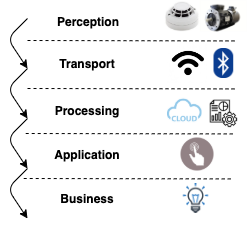
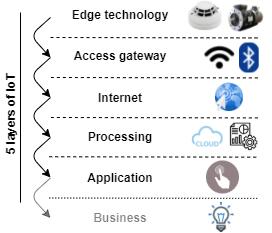
Improve IoT architecture #12
- Rename "IoT hacking" to "IoT overview" as the document does not talk
  about hacking there.
- For layered architecture follow CEH terminology closer.
- Add more information regarding IoT footprinting.
- Add more attacks.

diff --git a/chapters/18-iot-and-ot/iot-security.md b/chapters/18-iot-and-ot/iot-security.md
@@ -59,6 +59,19 @@
 
 ## IoT attacks
 
+## IoT attack surface areas
+
+- **Device memory**: Credentials
+- **Ecosystem access control**: Implicit trust between components
+- **Device physical interfaces**: Privilege escalation, CLI
+- **Device web interface**: SQL injection, XSS
+- **Device firmware**: Sensitive data exposure, hardcoded credentials
+- **Device network services**: Unencrypted/poorly encrypted services.
+- **Administrative interface**: SQL Injection, XSS
+- **Local data storage**: Data encrypted with discovered keys, lack of integrity checks.
+
+## IoT attack types
+
 - **Access control**
   - E.g. remote access control or gaining access to administration panels
 - **BlueBorn Attack**
@@ -72,17 +85,25 @@
     - Reconstruct a visual and textual representation of network information to support real-world Internet of Thingl
 - **HVAC attack**
   - Takes place when one hacks IoT devices in order to shut down air conditioning services.  
+  - Can allow access to a corporate systems.
 - [Backdoor](./../07-malware/malware-overview.md#backdoor) (not just IoT related)
 - [Exploit kits](../07-malware/malware-overview.md#exploit-kit)
+  - Malicious scripts used to exploit poorly patched devices.
 - [Replay attack](./../06-system-hacking/cracking-passwords-overview.md#replay-attack)
+  - Attackers send intercepted messages to target device to perform DoS.
+  - See also [SDR-based attacks](#sdr-based-attacks)
 - [Ransomware](./../07-malware/malware-overview.md#ransomware) attack
+  - Type of malware that uses encryption to block user's access to his/her device.
 - [Privilege escalation](./../06-system-hacking/escalating-privileges.md)
 - [Side channel attack](./../16-cloud-computing/cloud-security.md#side-channel-attacks)
+  - Attackers extract info about encryption keys by observing the emission signals (side channels) from IoT devices.
 - [Web application attacks](./../13-web-applications/hacking-web-applications.md), [web server attacks](./../12-web-servers/web-server-threats-and-attacks.md)
 - [Cloud computing attacks](./../16-cloud-computing/cloud-security.md#cloud-computing-attacks)
 - [Mobile application threats](./../17-mobile-platforms/mobile-attacks.md)
 - [DoS / DDoS](./../13-web-applications/denial-of-service.md)
-- Forged malicious devices
+  - Can be done by converting devices into an army of botnet.
+- **Forged malicious devices**
+  - Attackers replace authentic IoT devices  with malicious device.
 - Resetting to an insecure state
 - Removal of storage media
 - Firmware attack
@@ -92,7 +113,8 @@
 - Malicious updates
 - Insecure APIs
 - Eavesdropping
-- Sybil attack
+- **Sybil attack**
+  - Attacker uses multiple forged identities to create strong illusion of traffic congestion.
 
 ### Rolling code attack
 
@@ -101,7 +123,21 @@
 - Attacker capture signal from transmitter device, simultaneously blocking the receiver to receive the signal
 - Attacker uses the signal to gain unauthorized access
 - E.g. stealing car with captured signal
+  - Attacker jams and sniffs the signal to obtain the code transferred to vehicle's receiver
 - Tools include [HackRF One](https://greatscottgadgets.com/hackrf/one/) hardware tool.
+
+### SDR-based Attacks
+
+- Attackers use Software Defined Radio (SDR) to examine the communication signals in the IoT network and sends spam content or texts to the interconnected devices.
+- Can also change the transmission and reception of signals between the devices.
+- Includes
+  - **Replay attack**
+    - The attacker obtains frequency used for data sharing between devices and captures data.
+  - **Cryptanalysis Attack**
+    - Attacker uses same procedure as replay attack and also reverse engineering of the protocol to capture the original signal.
+  - **Reconnaissance attack**
+    - Attacker obtains info about the target device from the device's specification.
+    - See also [information gathering](#information-gathering)
 
 ### Firmware extraction
 
@@ -116,16 +152,43 @@
 - Allows pushing firmware updates
 - Enables usage of devices to other devices in the network
 
+### Fault injection attacks
+
+- Also known as **perturbation attacks**
+- Occur when a perpetrator injects any faulty or malicious program into the system to compromise the system security.
+- **Optical, Electro Magnetic Fault Injection (EMFI), Body Bias Injection (BBI)**
+  - Injection using projecting lasers and electromagnetic pulses.
+- **Power/clock/reset/glitching**
+  - Injections into power supply and clock network of the chip.
+- **Frequency/voltage tampering**
+  - Tampering with clock frequency of the chip
+- **Temperature attacks**
+  - Attackers alter the temp for the operating the chip.
+
+### DNS rebinding
+
+- Done by compromising browsers as traffic tunnels to exploit private services.
+- Done through malicious script in a webpage to manipulate resolution of domain names.
+- Can help to gain access over the target's router using a malicious JavaScript code injected on a web page.
+  - After that, an attacker can assault any device activated using the default password.
+
 ## Hacking Methodology
 
 ### Information gathering
 
-- IP address
-- Running protocols
-- Open ports
-- Type of device
-- Vendor
-- [Shodan](https://www.shodan.io/) is a helpful search engine for IoT
+- Also known as **IoT footprinting**
+- Includes collecting [information](./../02-footprinting/footprinting-overview.md#footprinting-information) regarding target IoT devices
+- Information can include e.g. IP address,running protocols, vendor, type of device, hostname, ISP, device location, banner of the target IoT device.
+- Can involve using
+  - [IoT search engines](./../02-footprinting/search-engines-and-online-resources.md#iot-search-engines) to find manufacturer or device information.
+  - Searching for hardware registrations in regulating bodies
+    - Can help to find information regarding compliance standards, user Manuals, documentation, wireless operating frequency, and photos
+    - E.g.
+      - 📝 [FCC ID search](https://fccid.io/) by "United States Federal Communications Commission registry"
+      - [IC ID Search](https://industrycanada.co/) by "Industry Canada (IC)"
+      - [KCC identifier search](https://fccid.io/KCC.php) by  Korean Communications Commission
+      - [CMII/CMIIT search](https://fccid.io/CMIIT-ID.php) by China Ministry of Industry and Information Technology
+- See also [Footprinting](./../02-footprinting/footprinting-overview.md)
 
 ### Vulnerability scanning
 
@@ -156,15 +219,30 @@
 - Clearing logs
 - Covering tracks
 
-## Countermeasures
+## IoT attack countermeasures
 
-- Firmware update
-- Block unnecessary ports
-- Disable telnet as it's insecure protocol
-- Use encrypted communication (SSL/TLS)
-- Use strong password
-- Encrypt drives
-- Periodic assessment of devices
-- Secure password recovery
-- Two-Factor Authentication
-- Disable UPnP
+- **Encrypt**
+  - Use encrypted communication (SSL/TLS)
+  - Implement end-to-end encryption
+  - Use VPN architecture
+  - Encrypt drives
+- **Password policies**
+  - Use strong password
+  - Ensure secure password recovery
+- **Update devices**
+  - Patch vulnerabilities
+  - Firmware update
+- **Restrict access**
+  - Prevent the devices against physical tampering
+  - Allow only trusted IP's to access device from internet
+  - Implement strong authentication mechanisms.
+    - E.g. two-Factor Authentication
+  - Use Lockout feature to disable multiple login attempts
+- **Monitor**
+  - Implement IPS/IDS in the network
+  - Periodic assessment of devices
+- **Disable unused or unnecessary ports and services**
+  - Disable UPnP port on routers
+  - Monitor traffic on port 48101 for infected traffic
+  - Disable telnet as it's insecure protocol
+  - Disable Guest or Demo user accounts

diff --git a/chapters/18-iot-and-ot/iot-overview.md b/chapters/18-iot-and-ot/iot-overview.md
@@ -1,4 +1,4 @@
-# IoT hacking
+# IoT overview
 
 ## IoT basics
 
@@ -61,26 +61,93 @@
 - Access are granted to the uploaded data to third-parties
 - E.g. [Map My Fitness](https://www.mapmyfitness.com/app) that compiles data from other applications
 
-## Five layer IoT architecture
+## Layered architecture
 
+- IoT architecture can be categorized into different layers.
+- There's no consistency regarding naming of layer.
+  - Different methodologies are used but the concepts they represent are very similar.
+- 📝 It usually consists of 5 layers:
+  1. [Edge technology layer](#edge-technology-layer) the "IoT objects collecting data"
+  2. [Access gateway layer](#access-gateway-layer) the "data transporter"
+  3. [Internet layer](#internet-layer) the "endpoint connector"
+  4. [Middleware layer](#middleware-layer) the "data analyzer and processor"
+  5. [Application layer](#application-layer) the "user interface"
+- Some sources also name sixth layer:
+  6. [Business layer](#business-layer) the "core logic"
 - Each layer is utilized by layer below without knowledge of other layers
 - ![IoT 5 Layered Architecture](./img/iot-5-layer-architecture.png)
 - Read more: [IoT Elements, Layered Architectures and Security Issues: A Comprehensive Survey](https://www.mdpi.com/1424-8220/18/9/2796/htm)
 
-### Business layer
+### Five-layers of IoT architecture
 
-- Includes business models
-- System management
-- **Key security components**: privacy protection
+#### Edge technology layer
+
+- Also known as **perception layer** or **hardware layer**
+- Physical objects (hardware components)
+  - Covers IoT capable devices
+  - E.g. sensors, actuators, heat sensor, RFID tags, readers, device itself
+- Connects devices within network and server
+- Gathers environment data
+- **Key security components**
+  - Encryption and key agreement
+  - Sensor data protection
 - **Vulnerabilities**
-  - Business logic attack: exploits a programming flaw
-  - Zero-day attack: exploits security hole unknown to the vendor
+  - Eavesdropping: real time attack to intercept privacy communications.
+  - Node Capture: capturing a key node such as gateway to reveal information.
+  - Fake Node and Malicious: adding node to input fake data to stop transmitting real information
+  - Replay (play back) attack: eavesdrops a communication and reusing it to authenticate.
+  - Timing Attack: Extract secrets by observing respond time
 
-### Application layer
+#### Access gateway layer
 
-- Graphic data representation
-- Application specific services
-- **Key security components**: authentication, key agreement
+- Also known as **network layer** or **transport layer**
+- Handles data transmission i.e. transferring the data through network
+- E.g. Wi-Fi, bluetooth
+- Enables communication
+  - Connects two endpoints e.g. a clients with a device.
+  - Includes the initial data handling.
+  - Through e.g. message routing, message identification, and subscriptions.
+- **Key security components**
+  - Encryption
+  - Identity authentication
+- **Vulnerabilities**
+  - Denial of Service (DoS) Attack with redundant requests
+  - Main-in-The-Middle (MiTM) Attack: to intercept and manipulate data in real-time
+  - Storage Attack: Changing data stored in device or cloud
+  - Exploit attack: Exploits vulnerabilities in an application, system or hardware
+
+#### Internet layer
+
+- Responsible for end-points connectivity.
+- Carries out communication between two endpoints.
+  - E.g. device-to-device, device-to-cloud, device-to-gateway and back-end data-sharing.
+
+#### Middleware layer
+
+- Also known as **processing layer**
+- Responsible for device and information management.
+- Handles data analytics
+  - I.e. storing, processing and analysis of data.
+  - E.g. data analysis, data aggregation, data filtering, device information discovery, and access control.
+- Behaves as interface for two-way communication between
+  - [Application layer](#application-layer) (the user interface).
+  - [Edge technology layer](#edge-technology-layer) (the hardware).
+- **Key security components**
+  - Key security layer, secure cloud computing, antivirus
+- **Vulnerabilities**
+  - Exhaustion: Can disturb memory, battery e.g. after effect of a DoS
+  - Malware
+
+#### Application layer
+
+- The user interface for
+  - Graphic data representation
+  - Controlling, managing and commanding IoT devices.
+- Responsible for delivering *service* and *data* to users.
+  - A service is application-specific e.g. industrial, manufacturing, automobile, security, healthcare...
+- **Key security components**
+  - Authentication
+  - Key agreement
 - **Vulnerabilities**
   - Cross site scripting: injecting code through e.g. JavaScript
   - Malicious code attack: can activate itself or require user attention to perform an action.
@@ -88,36 +155,17 @@
     - Caused by massive amount of data transmission
     - Can lead to data loss and network disturbance
 
-### Processing (middleware) layer
+### Other IoT layers
 
-- Data analytics: storing, processing and analysis of data
-- **Key security components**: key security layer, secure cloud computing, antivirus
+#### Business layer
+
+- Includes business models
+- System management
+- **Key security components**
+  - Privacy protection
 - **Vulnerabilities**
-  - Exhaustion: Can disturb memory, battery e.g. after effect of a DoS
-  - Malware
-
-### Network (transport) layer
-
-- Data transmission: Transfer the data through network
-- E.g. Wi-Fi, bluetooth
-- **Key security components**: encryption, identity authentication
-- **Vulnerabilities**
-  - Denial of Service (DoS) Attack with redundant requests
-  - Main-in-The-Middle (MiTM) Attack: to intercept and manipulate data in real-time
-  - Storage Attack: Changing data stored in device or cloud
-  - Exploit attack: Exploits vulnerabilities in an application, system or hardware
-
-### Perception layer
-
-- Physical objects that gather environment data
-- Sensors, actuators e.g. heat sensor
-- **Key security components**: encryption and key agreement, sensor data protection
-- **Vulnerabilities**
-  - Eavesdropping: real time attack to intercept privacy communications.
-  - Node Capture: capturing a key node such as gateway to reveal information.
-  - Fake Node and Malicious: adding node to input fake data to stop transmitting real information
-  - Replay (play back) attack: eavesdrops a communication and reusing it to authenticate.
-  - Timing Attack: Extract secrets by observing respond time
+  - Business logic attack: exploits a programming flaw
+  - Zero-day attack: exploits security hole unknown to the vendor
 
 ## IoT connectivity
 

diff --git a/chapters/02-footprinting/search-engines-and-online-resources.md b/chapters/02-footprinting/search-engines-and-online-resources.md
@@ -93,14 +93,21 @@
 
 ### IoT search engines
 
-- Shodan, Censys, and Thingful
 - Can allow finding e.g. manufacturer details, geographical location, IP address, hostname, open ports
+- E.g. [Shodan](#shodan), Censys, and Thingful
+- See [Information Gathering | IoT security](./../18-iot-and-ot/iot-security.md#information-gathering)
 
 #### Shodan
 
 - Online [search engine](https://shodan.io)
 - Finds specific types of IoT (webcams, routers, servers, etc.) connected to the internet using a variety of filters.
 - 📝 You can e.g. search for open ports `port: 1433`
+
+#### Censys
+
+- Online [censys](https://censys.io/)
+- 📝 Provides internet asset discovery i.e. scanning for unknown internet resources.
+- Available on [search.censys.io](https://search.censys.io/)
 
 ### Netcraft
 

diff --git a/README.md b/README.md
@@ -135,7 +135,7 @@
     2. [Mobile attack vectors](./chapters/17-mobile-platforms/mobile-attack-vectors.md)
     3. [Mobile attacks](./chapters/17-mobile-platforms/mobile-attacks.md)
 18. IoT and OT
-    1. [IoT hacking](./chapters/18-iot-and-ot/iot-hacking.md)
+    1. [IoT overview](./chapters/18-iot-and-ot/iot-overview.md)
     2. [IoT security](./chapters/18-iot-and-ot/iot-security.md)
 19. [Exam readiness](chapters/19-exam-readiness/exam-readiness.md)
 
